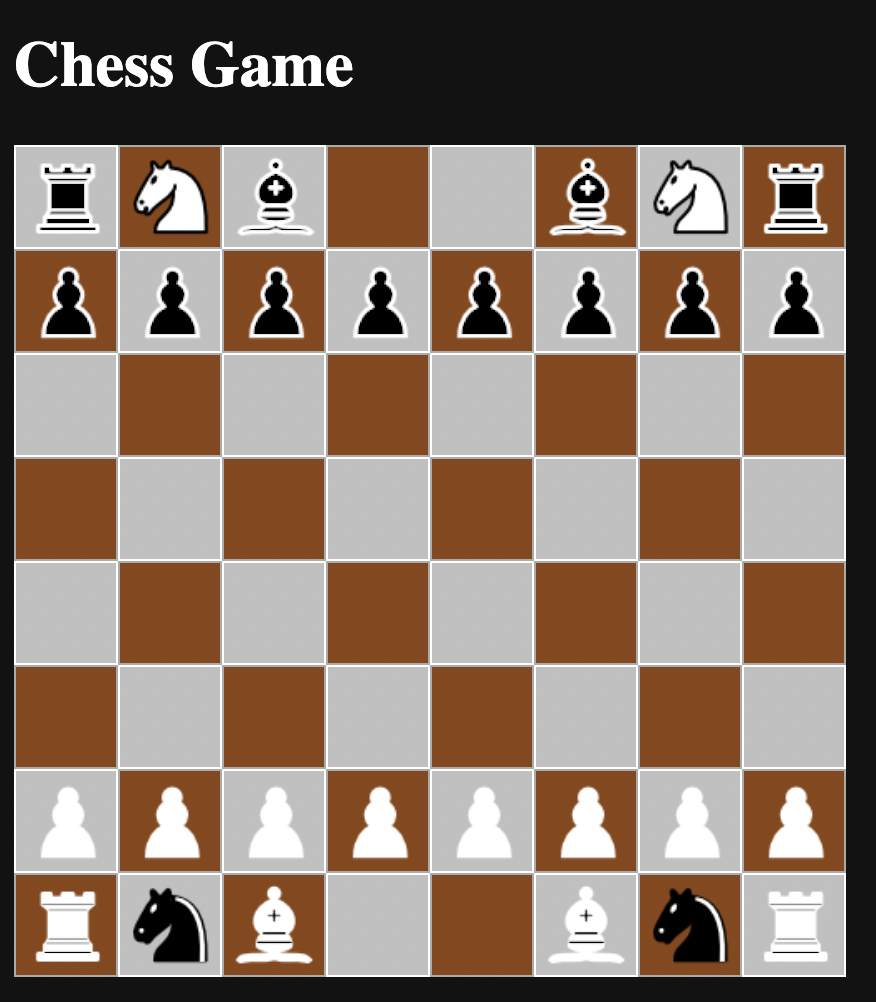
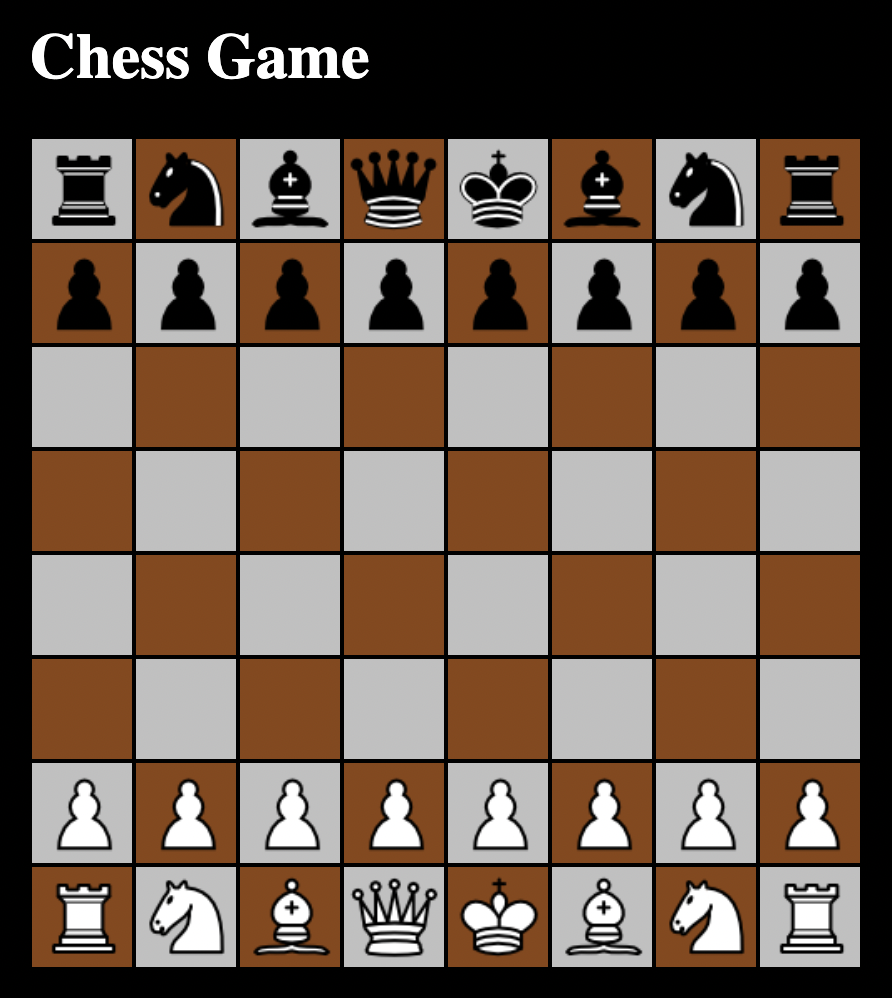
Pieces correctly placed.

Changed region(s): [[0.0, 0.1242, 0.9863, 0.994], [0.0, 0.0311, 0.4315, 0.0932]]

diff --git a/web_interfaces/ui/src/components/Game.tsx b/web_interfaces/ui/src/components/Game.tsx
@@ -2,10 +2,51 @@
 
 import React, { useState } from "react";
 import Board from "./Board";
-import { PieceProps } from "./Piece";
+import { PieceType, PieceProps } from "./Piece";
 
 // Initial state for all pieces (sample positions)
 const initialGameState: PieceProps[] = [];
+
+type PieceColor = "white" | "black";
+
+function placePieces(gs: PieceProps[], color: string, row: number) {
+  const piecesOrder = [
+    "castle",
+    "knight",
+    "bishop",
+    "queen",
+    "king",
+    "bishop",
+    "knight",
+    "castle",
+  ];
+
+  for (let i = 0; i < 8; i++) {
+    const type = piecesOrder[i];
+    if (i === 3) {
+      gs.push({
+        id: `${color}-${type}-${i}`,
+        type: "queen" as PieceType,
+        color: color as PieceColor,
+        position: { row: row, col: i },
+      });
+    } else if (i === 4) {
+      gs.push({
+        id: `${color}-${type}-${i}`,
+        type: "king" as PieceType,
+        color: color as PieceColor,
+        position: { row: row, col: i },
+      });
+    } else {
+      gs.push({
+        id: `${color}-${type}-${i}`,
+        type: type as PieceType,
+        color: color as PieceColor,
+        position: { row: row, col: i },
+      });
+    }
+  }
+}
 
 function placePawns(gs: PieceProps[]) {
   for (let i = 0; i < 8; i++) {
@@ -23,58 +64,10 @@ function placePawns(gs: PieceProps[]) {
     });
   }
 }
+
 function placeBackRow(gs: PieceProps[]) {
-  for (let i = 0; i < 8; i++) {
-    switch (i) {
-      case 0:
-      case 7:
-        gs.push({
-          id: `white-castle-${i}`,
-          type: "castle",
-          color: "white",
-          position: { row: 0, col: i },
-        });
-        gs.push({
-          id: `black-castle-${i}`,
-          type: "castle",
-          color: "black",
-          position: { row: 7, col: i },
-        });
-        break;
-      case 1:
-      case 6:
-        gs.push({
-          id: `white-knight-${i}`,
-          type: "knight",
-          color: "white",
-          position: { row: 0, col: i },
-        });
-        gs.push({
-          id: `black-knight-${i}`,
-          type: "knight",
-          color: "black",
-          position: { row: 7, col: i },
-        });
-        break;
-      case 2:
-      case 5:
-        gs.push({
-          id: `white-bishop-${i}`,
-          type: "bishop",
-          color: "white",
-          position: { row: 0, col: i },
-        });
-        gs.push({
-          id: `black-bishop-${i}`,
-          type: "bishop",
-          color: "black",
-          position: { row: 7, col: i },
-        });
-        break;
-      default:
-        break;
-    }
-  }
+  placePieces(gs, "white", 0);
+  placePieces(gs, "black", 7);
 }
 
 const ChessGame: React.FC = () => {

diff --git a/web_interfaces/ui/src/components/Board.tsx b/web_interfaces/ui/src/components/Board.tsx
@@ -16,7 +16,7 @@ const Board: React.FC<BoardProps> = ({ gameState, onMovePiece }) => {
     const color = isEven ? 'silver' : 'saddlebrown';
 
     const piece = gameState.find(
-        (p) => p.position.row === row && p.position.col === col
+        (p) => p.position.row === (7 -row) && p.position.col === col
     );
 
     return <Square key={`${row}-${col}`} size={squareSize} color={color} piece={piece} />;

diff --git a/web_interfaces/ui/src/components/Piece.tsx b/web_interfaces/ui/src/components/Piece.tsx
@@ -3,10 +3,12 @@
 import React from "react";
 import "./Piece.css";
 
+export type PieceType = "castle" | "knight" | "bishop" | "queen" | "king" | "pawn";
+
 export interface PieceProps {
   id: string;
   color: "white" | "black";
-  type: "pawn" | "castle" | "knight" | "bishop" | "queen" | "king";
+  type: PieceType;
   position: { row: number; col: number };
 }
 

diff --git a/web_interfaces/ui/public/index.html b/web_interfaces/ui/public/index.html
@@ -5,6 +5,7 @@
     <link rel="icon" href="%PUBLIC_URL%/favicon.ico" />
     <meta name="viewport" content="width=device-width, initial-scale=1" />
     <meta name="theme-color" content="#000000" />
+    <meta name="color-scheme" content="light only">
     <meta
       name="description"
       content="Web site created using create-react-app"

diff --git a/web_interfaces/ui/src/App.css b/web_interfaces/ui/src/App.css
@@ -1,0 +1,9 @@
+body {
+    display: flex;
+    align-items: center;
+    justify-content: center;
+    height: 100vh;
+    margin: 0;
+    background-color: black;
+    color: white;
+}

diff --git a/web_interfaces/ui/src/App.tsx b/web_interfaces/ui/src/App.tsx
@@ -2,6 +2,8 @@
 
 import React from 'react';
 import ChessGame from './components/Game';
+import './App.css'
+
 
 const App: React.FC = () => {
   return (
